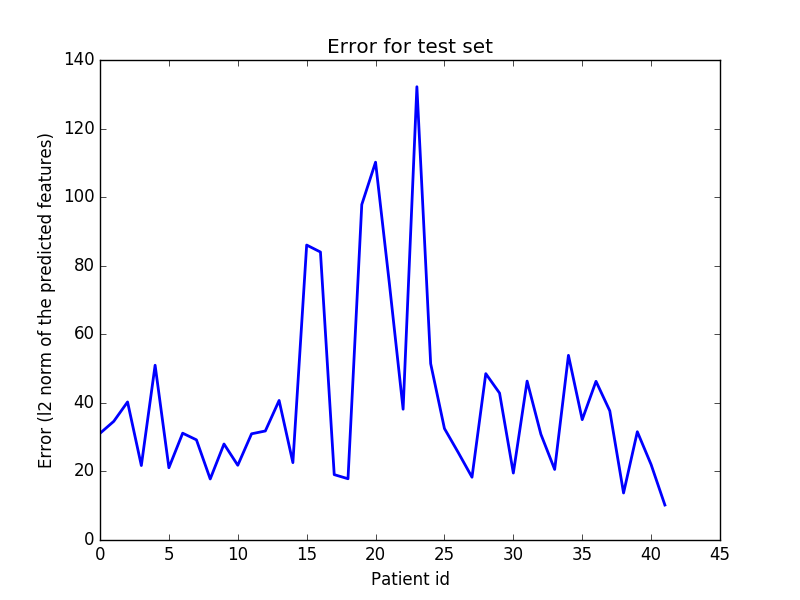
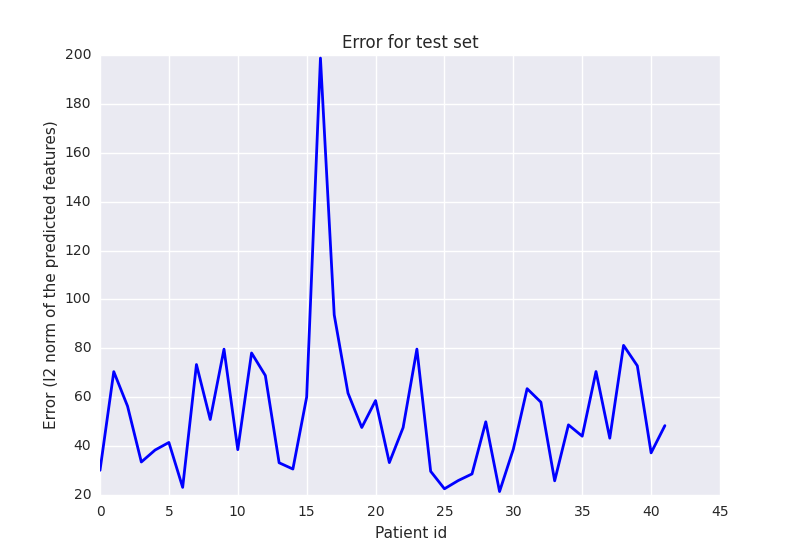
Avg k nearest

Changed region(s): [[0.0312, 0.0618, 0.9062, 0.9891]]

diff --git a/avgmodel_kclosest.py b/avgmodel_kclosest.py
@@ -1,0 +1,169 @@
+import glob
+import random
+import numpy as np
+from sklearn import linear_model
+from numpy import linalg as LA
+import matplotlib.pyplot as plt
+from matplotlib import pylab as pl
+import matplotlib.colors as colors
+import seaborn as sns
+import os
+import shutil
+
+def read_data(filename):
+    f = open(filename)
+    f.readline()
+    org_data = np.genfromtxt(filename, delimiter=',')[1:]
+
+    data = np.delete(org_data, [0, 1, 2], axis=1)
+    A = data[: -1]
+    Y = data[-1]
+    return A, Y
+
+def find_nearest_patients(A, training_files):
+    results = []
+    for f in training_files:
+        patid = f.split('/')[-1]
+        train_A, _ = read_data(f)
+
+        distance = LA.norm(np.subtract(A, train_A))
+        results.append((distance, patid))
+    results.sort(key=lambda x: x[0])
+    return results
+
+def main(k):
+    random.seed(5)
+
+    # path = os.environ['HOME']+'/parkinson/avg_model_figs/k_nearest/not_normalized/'+ str(k) + '_nearest'
+    # feature_path = path + 'feature_error_hists/'
+    # if os.path.exists(path):
+    #     shutil.rmtree(path)
+    # else:
+    #     os.mkdir(path, 0777)
+    #     os.mkdir(path + '/feature_error_hists/', 0777)
+
+
+    tolerance = 0.1
+    # list of models for each patient
+    models = {}
+
+    files = glob.glob("patient_wise_data/*.csv")
+
+    random.shuffle(files)
+
+    training_files = files[:100]
+    testing_files = files[100:]
+
+    print 'Reading Training data'
+
+    for f in training_files:
+        A, Y = read_data(f)
+        reg = linear_model.Ridge(alpha=.5)
+        model = reg.fit(A.transpose(), Y)
+        models[f.split('/')[-1]] = model
+        error = LA.norm(A.transpose().dot(model.coef_) - Y)
+
+    # This is the list of all predictions for every patient in the
+    # testing set
+    all_prediction_vectors = []
+
+    # list of all true labels
+    all_label_vectors = []
+    print 'Running testing...'
+    # For testing
+
+    # now for testing, a sample point goes through all the models we have.
+    # we actually want to find which patient is most similar to our sample
+    # input testing point. Find the most similar parient and use the model
+    # that represent that patient inorder to do prediction. In this version
+    # avoid the averaging effect
+
+    # So go through each test data point and find the closest model from the
+    # list of models using the training data point
+    error_vectors = []
+    test_errors = []
+    for f in testing_files:
+
+        testing_A, Y = read_data(f)
+        # closest_model, closest_patient = find_closest_model(
+        #     models, training_files, testing_A)
+        k_nearest_patients = find_nearest_patients(testing_A, training_files)
+
+        k_nearest_models = {}
+        for (d, patid) in k_nearest_patients[:k]:
+            k_nearest_models[patid] = models[patid]
+
+        pred_y_per_patient = np.zeros(Y.shape)
+        # take the test point and make it go through
+        # all the models
+        error_per_model = 0.
+
+        for (pat_no, model) in k_nearest_models.iteritems():
+            pred_y = A.transpose().dot(model.coef_)
+            error_v = pred_y - Y
+            error = LA.norm(error_v)
+            error_per_model += error
+
+            pred_y_per_patient = np.add(pred_y_per_patient, pred_y)
+        pred_y = 1.0 / (len(k_nearest_models)) * pred_y_per_patient
+        error_vector = pred_y - Y
+        test_error = LA.norm(error_vector)
+        test_errors.append(test_error)
+        error_vectors.append(error_vector)
+    # We want to find how many of the elements (i.e feature scores)
+    # are within the 'tolerance' variable. Features that are inside the tolerance range
+    # are correctly predicted and note which of these features are they
+    feature_acuracy_per_patient = []
+
+    for e_v in error_vectors:
+        matched_features = []
+        not_matched_features = []
+        for i in range(len(e_v)):
+            feature_num = i + 1
+            # feature score is within the tolerance
+            if np.fabs(e_v[i]) < tolerance:
+                matched_features.append(feature_num)
+            else:
+                not_matched_features.append(feature_num)
+        accuracy = (100.0 * len(matched_features))/( len(matched_features) + len(not_matched_features))
+        #print 'Num features predicted correctly=', accuracy
+
+        feature_acuracy_per_patient.append(accuracy)
+
+    fig1 = plt.figure()
+    plt.plot(range(len(feature_acuracy_per_patient)), feature_acuracy_per_patient, '-r', linewidth=1.0, ls='-')
+
+    plt.ylabel("Percentage correctly predicted features")
+    plt.xlabel("Patient Number")
+    plt.title("AVG "+str(k) +" Closest patient: Percentage of features predicted correctly for patients from Test set")
+    plt.savefig('avg_model_figs/k_nearest/not_normalized' + '/'+ str(k)+'_avg_mode_feature_accuracy.png')
+    print 'Plotting Heatmap'
+    fig2 = plt.figure(figsize=(12,16))
+    # Error Matrix Plotting
+    error_matrix = np.column_stack(error_vectors)
+
+    # The Error Matrix Heat map
+    ax = sns.heatmap(np.fabs(error_matrix), cmap="YlOrRd", xticklabels=False)
+    ax.set(xlabel='patient id', ylabel='feature number', title='Error Matix on Test set for '+str(k)+' nearest patient')
+    a = ax.get_figure()
+    a.savefig('avg_model_figs/k_nearest/not_normalized/' + str(k)+'_test_error_matrix.png')
+
+    # plotting error Histograms
+    #### FIX THIS PART
+    # for feature_num in range(42):
+    #     # for all 42 patients
+    #     fig = plt.figure()
+    #
+    #     feature_i = error_matrix[feature_num, :]
+    #     plt.hist(feature_i)
+    #     plt.title("Feature error Histogram for feature number: " +
+    #               str(feature_num + 1))
+    #     name = str(k)+'_feature_' + str(feature_num + 1) + '_histogram'
+    #     fig.savefig(path + '/feature_error_hists/'+name, bbox_inches='tight')
+
+
+
+if __name__ == '__main__':
+    K = [2, 3,5,7,9, 11, 15]
+    for i in K:
+        main(i)
